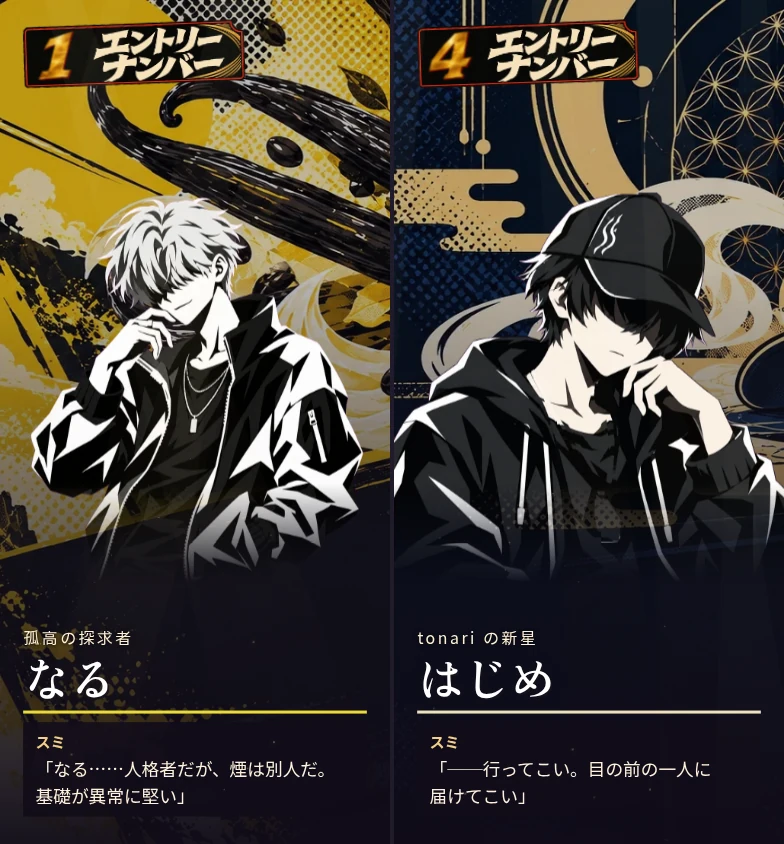
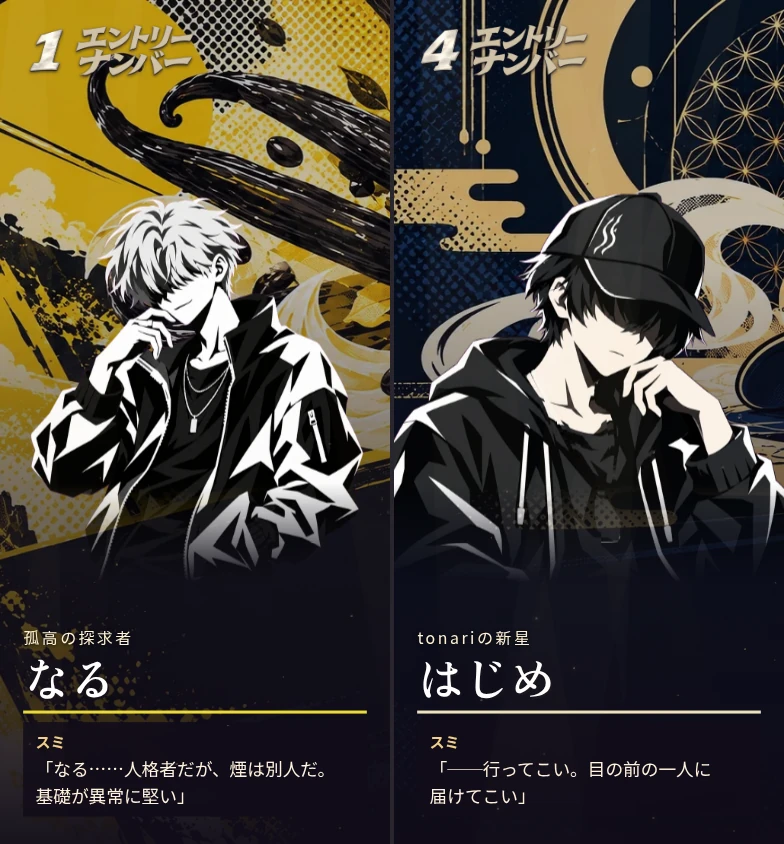
入場番号を背景になじませ、はじめの肩書きを全五章でつなぐ

Changed region(s): [[0.0306, 0.0, 0.3367, 0.1232], [0.5204, 0.0, 0.8265, 0.1232], [0.6122, 0.7393, 0.6735, 0.7701]]

diff --git a/remake/js/chapters/tournament-entrance.js b/remake/js/chapters/tournament-entrance.js
@@ -14,25 +14,25 @@ export const ENTRANCE_CARDS = Object.freeze({
     { id: "naru", ring: "孤高の探求者", note: "なる……人格者だが、煙は別人だ。基礎が異常に堅い" },
     { id: "adam", ring: "ダブルアップルの匠", note: "アダムは一点突破。正面から殴り合うな" },
     { id: "minto", ring: "甘い嵐", note: "みんとは緩急で揺さぶってくる。乗せられるな" },
-    { id: "hajime", ring: "tonari の新星", note: "──行ってこい。目の前の一人に届けてこい" },
+    { id: "hajime", ring: "tonariの新星", note: "──行ってこい。目の前の一人に届けてこい" },
   ],
   2: [
     { id: "ageha", ring: "MELTY PUFF の直感", note: "あげはは理屈より先に手が動く。あれを真似しようとするな" },
     { id: "kumicho", ring: "スジを通す煙", note: "神崎さんの煙は穏やかだ。派手さで勝とうとしたら負ける" },
     { id: "kuraudo", ring: "カシスの余韻", note: "クラウドは間で聴かせる。お前は自分の拍で作れ" },
-    { id: "hajime", ring: "県大会の挑戦者", note: "前の大会の自分と比べろ。隣は見なくていい" },
+    { id: "hajime", ring: "橙須の新星", note: "前の大会の自分と比べろ。隣は見なくていい" },
   ],
   3: [
     { id: "ayatori", ring: "煙幕の勝負師", note: "綾取は相手の判断を動かしてくる。味の名前に釣られるな" },
     { id: "steve", ring: "低温の研究家", note: "スティーブは熱を急がない。最後の一口まで崩れないぞ" },
     { id: "volk", ring: "鉄の煙", note: "ヴォルクの精度は本物だ。数字で張り合っても仕方ない" },
-    { id: "hajime", ring: "柚ヶ谷の代表", note: "全国だろうが、やることは一台だ。いつもどおり作ってこい" },
+    { id: "hajime", ring: "A県を背負う職人", note: "全国だろうが、やることは一台だ。いつもどおり作ってこい" },
   ],
   4: [
     { id: "naru", ring: "孤高の探求者", note: "なる……ここまで来たか。あいつの基礎は世界でも通じる" },
     { id: "master_hookah", ring: "龍龍水煙所の宗師", note: "王さんは派手な煙の裏で、相手の呼吸を見ている" },
     { id: "sheikh", ring: "世界王者", note: "王者は急がない。全部受け止めるつもりで来るぞ" },
-    { id: "hajime", ring: "日本の挑戦者", note: "──行ってこい。目の前の一人に届けてこい" },
+    { id: "hajime", ring: "日本を背負う職人", note: "──行ってこい。目の前の一人に届けてこい" },
   ],
 });
 
@@ -60,7 +60,7 @@ function ticketImage(name) {
 function entryTag(number) {
   return el("span.ent-tag", [
     el("span.ent-tag-label", [el("span", { text: "エントリー" }), el("span", { text: "ナンバー" })]),
-    ticketImage("ticket"),
+    ticketImage("lettering"),
     el("b.ent-number", [String(number), number <= 4 ? ticketImage(`digit-${number}`) : null]),
   ]);
 }

diff --git a/remake/css/bundle-1.css b/remake/css/bundle-1.css
@@ -11705,23 +11705,21 @@ html:root body:not(:root) #stage #modal > .modal-box.ts-contest-modal .modal-act
 .ent-card[data-art="classic"] .ent-portrait { height: 145%; bottom: -38%; }
 .entrance .ent-tag {
   position: relative; inset: auto; grid-column: 2; grid-row: 1; align-self: end; justify-self: start;
-  display: grid; grid-template-columns: 30% 1fr; align-items: center;
-  width: 366px; aspect-ratio: 2136 / 612; padding: 0; isolation: isolate;
-  color: #fff1d4; background: #1a121a; transform: rotate(-2deg); transform-origin: 16% 70%;
+  display: grid; grid-template-columns: 76px 1fr; column-gap: 9px; align-items: center;
+  width: 281px; height: 84px; padding: 0; color: #e2d8c0; background: transparent;
+  filter: drop-shadow(0 1px 1px #151019) drop-shadow(0 2px 3px #151019b8);
 }
-.entrance .ent-tag.printed { background: transparent; }
-.ent-tag > img, .ent-number > img {
-  position: absolute; inset: 0; width: 100%; height: 100%; object-fit: contain; pointer-events: none;
-}
-.ent-tag-label {
-  grid-column: 2; grid-row: 1; display: grid;
-  font: 900 28px/1.05 var(--font); letter-spacing: .06em;
-}
+.ent-tag-label, .ent-tag > img { grid-column: 2; grid-row: 1; }
+.ent-tag-label { display: grid; font: 800 25px/1.05 var(--font); letter-spacing: .04em; }
+.ent-tag > img, .ent-number > img { width: 100%; height: 100%; object-fit: contain; pointer-events: none; }
 .ent-tag.printed > .ent-tag-label, .ent-number.printed { color: transparent; }
 .ent-number {
-  position: relative; grid-column: 1; grid-row: 1; justify-self: center;
-  width: 83%; height: 80%; display: grid; place-items: center;
-  font: 900 78px/1 var(--font); color: #f9df98;
+  position: relative; grid-column: 1; grid-row: 1; width: 100%; height: 90%;
+  display: grid; place-items: center; font: 900 70px/1 var(--font); color: #e2d8c0;
+}
+.ent-number > img {
+  position: absolute; inset: 0;
+  filter: grayscale(1) contrast(.34) brightness(1.65) sepia(.24);
 }
 .entrance .ent-meta {
   grid-column: 2; grid-row: 2; max-width: 100%; min-width: 0;
@@ -11737,12 +11735,12 @@ html:root body:not(:root) #stage #modal > .modal-box.ts-contest-modal .modal-act
 .ent-card.in .ent-tag { animation: ent-tag-in .42s cubic-bezier(.16, .8, .24, 1) both; }
 .ent-card.in .ent-number { animation: ent-number-stamp .38s ease-out both; }
 @keyframes ent-tag-in {
-  from { translate: -48px 0; opacity: 0; }
+  from { translate: -18px 0; opacity: 0; }
   to { translate: 0 0; opacity: 1; }
 }
 @keyframes ent-number-stamp {
-  0% { scale: 1.45; }
-  65% { scale: .94; }
+  0% { scale: 1.12; }
+  65% { scale: .99; }
   100% { scale: 1; }
 }
 .ent-card.in .ent-portrait { animation: ent-arrive .5s var(--ease-snap) both; }

diff --git a/remake/css/tournament-show.css b/remake/css/tournament-show.css
@@ -373,23 +373,21 @@ html:root body:not(:root) #stage #modal > .modal-box.ts-contest-modal .modal-act
 .ent-card[data-art="classic"] .ent-portrait { height: 145%; bottom: -38%; }
 .entrance .ent-tag {
   position: relative; inset: auto; grid-column: 2; grid-row: 1; align-self: end; justify-self: start;
-  display: grid; grid-template-columns: 30% 1fr; align-items: center;
-  width: 366px; aspect-ratio: 2136 / 612; padding: 0; isolation: isolate;
-  color: #fff1d4; background: #1a121a; transform: rotate(-2deg); transform-origin: 16% 70%;
+  display: grid; grid-template-columns: 76px 1fr; column-gap: 9px; align-items: center;
+  width: 281px; height: 84px; padding: 0; color: #e2d8c0; background: transparent;
+  filter: drop-shadow(0 1px 1px #151019) drop-shadow(0 2px 3px #151019b8);
 }
-.entrance .ent-tag.printed { background: transparent; }
-.ent-tag > img, .ent-number > img {
-  position: absolute; inset: 0; width: 100%; height: 100%; object-fit: contain; pointer-events: none;
-}
-.ent-tag-label {
-  grid-column: 2; grid-row: 1; display: grid;
-  font: 900 28px/1.05 var(--font); letter-spacing: .06em;
-}
+.ent-tag-label, .ent-tag > img { grid-column: 2; grid-row: 1; }
+.ent-tag-label { display: grid; font: 800 25px/1.05 var(--font); letter-spacing: .04em; }
+.ent-tag > img, .ent-number > img { width: 100%; height: 100%; object-fit: contain; pointer-events: none; }
 .ent-tag.printed > .ent-tag-label, .ent-number.printed { color: transparent; }
 .ent-number {
-  position: relative; grid-column: 1; grid-row: 1; justify-self: center;
-  width: 83%; height: 80%; display: grid; place-items: center;
-  font: 900 78px/1 var(--font); color: #f9df98;
+  position: relative; grid-column: 1; grid-row: 1; width: 100%; height: 90%;
+  display: grid; place-items: center; font: 900 70px/1 var(--font); color: #e2d8c0;
+}
+.ent-number > img {
+  position: absolute; inset: 0;
+  filter: grayscale(1) contrast(.34) brightness(1.65) sepia(.24);
 }
 .entrance .ent-meta {
   grid-column: 2; grid-row: 2; max-width: 100%; min-width: 0;
@@ -405,12 +403,12 @@ html:root body:not(:root) #stage #modal > .modal-box.ts-contest-modal .modal-act
 .ent-card.in .ent-tag { animation: ent-tag-in .42s cubic-bezier(.16, .8, .24, 1) both; }
 .ent-card.in .ent-number { animation: ent-number-stamp .38s ease-out both; }
 @keyframes ent-tag-in {
-  from { translate: -48px 0; opacity: 0; }
+  from { translate: -18px 0; opacity: 0; }
   to { translate: 0 0; opacity: 1; }
 }
 @keyframes ent-number-stamp {
-  0% { scale: 1.45; }
-  65% { scale: .94; }
+  0% { scale: 1.12; }
+  65% { scale: .99; }
   100% { scale: 1; }
 }
 .ent-card.in .ent-portrait { animation: ent-arrive .5s var(--ease-snap) both; }

diff --git a/remake/js/looks/vertical.js b/remake/js/looks/vertical.js
@@ -143,12 +143,13 @@ function start() {
   function evaluate(now, periodic) {
     const wipe = document.querySelector("#wipe.resume");
     if (wipe) resumeSmoke.append(...wipe.querySelectorAll(".wipe-smoke, .wipe-haze"));
-    // 第1章の幕は本編の札をそのまま全面に出す。重なった小窓や操作画面があれば通常の判定に任せる。
+    // 大会入場は全章で同じ縦ポスターを使う。日付や幕の札は第1章だけを全面に出す。
     const frontMotion = motionLayer.root.lastElementChild;
     const frontFx = document.getElementById("fx")?.lastElementChild;
-    const interlude = state?.chapter === 1 && !isLoading() && !topDialogOpen() && !document.querySelector("#modal.show") &&
-      (frontMotion ? frontMotion.matches(".day-card, .tr-dawn") :
-        frontFx?.matches('.beat, .round-cut, .entrance, .day-card, .tr-dawn, .chapter-poem[data-poem="poem_ch1"]'));
+    const entrance = !frontMotion && frontFx?.matches(".entrance");
+    const chapterOneCard = state?.chapter === 1 && (frontMotion ? frontMotion.matches(".day-card, .tr-dawn") :
+      frontFx?.matches('.beat, .round-cut, .day-card, .tr-dawn, .chapter-poem[data-poem="poem_ch1"]'));
+    const interlude = (entrance || chapterOneCard) && !isLoading() && !topDialogOpen() && !document.querySelector("#modal.show");
     let found = interlude ? { kind: "scene", name: "interlude" } : boardOpen() ? { kind: "scene", name: "board" } : detectState(wipe ? [...own, wipe] : own);
     // 作業台に重なった大会中継・投票は、前面の大会用レイアウトで操作する。
     const tournament = found.name === "tournament" || found.name === "tournamentResult";

diff --git a/remake/js/chapters/ch5.js b/remake/js/chapters/ch5.js
@@ -60,7 +60,7 @@ const test = name => `ch5-${name}`;
 
 // 試合当日の場面カード文案（到着→一杯目→二杯目の前の順）。
 const MATCH_CARDS = {
-  arrival: { title: "試合当日", description: "会場に着いた。あとは、二台の煙だけ。" },
+  arrival: { title: "tonariの店長　はじめ", description: "試合当日。SHISHA-9000との二本勝負に向かう。" },
   firstCup: { title: "一台目", description: "一台目は、9000が、はじめの待ち方を再現する。" },
   beforeSecond: { title: "二台目の前に", description: "ここまでの日々が、二台目を作る。" },
 };

diff --git a/docs/design/ch1-portrait-pad/README.md b/docs/design/ch1-portrait-pad/README.md
@@ -2,7 +2,7 @@
 
 **最初に全面化したいのは、巻頭詩、朝・大会当日の日付、夜イベントの一行、大会の選手入場と ROUND の帯。** 390 × 844 CSS px では、これらの場面にも下端の **302 px** が割り当てられ、背景と演出の表示枠は **542 px** だった。本文送りや行き先選択が戻る瞬間に、従来の親指位置へ戻す。コンティニューは維持する。
 
-採用後の第1章では、選手入場を「エントリーナンバー1　なる」から「エントリーナンバー4　はじめ」まで選手ごとの登場カットインの人物絵と背景で紹介する。上部には朱縁の黒札が入り、手描き文字の隣に金箔調の番号が大きく現れる。少し遅れて選手名が入る。二つ名・選手名・スミの台詞は下部の別々の行に表示する。[実装後の入場画面（左・なる、右・はじめ）](entrants-implemented.webp)／[3番・みんとから4番・はじめへの切り替わり（動画）](entry-number-motion.webp)
+採用後の第1章では、選手入場を「エントリーナンバー1　なる」から「エントリーナンバー4　はじめ」まで選手ごとの登場カットインの人物絵と背景で紹介する。上部には生成した題字と番号を同じ淡い紙色で重ね、文字の隙間から選手ごとの背景が見える。少し遅れて選手名が入る。二つ名・選手名・スミの台詞は下部の別々の行に表示する。[実装後の入場画面（左・なる、右・はじめ）](entrants-implemented.webp)／[3番・みんとから4番・はじめへの切り替わり（動画）](entry-number-motion.webp)
 
 ここでのパッドは左の輪形十字キーと右の丸ボタン（以下 A）の組。片方でも役割があれば「要る」。写真・文・ボタンを直接タップできるだけでは、パッドを外す理由にしない。以下の判定は **main `abf2a5731` の第1章・「縦画面／煙の舞台」** に限る。演出が重なるときは最前面で入力を受ける画面を優先する。
 

diff --git a/brand/story_and_structure.md b/brand/story_and_structure.md
@@ -6,7 +6,7 @@
 
 ## 舞台となる街
 
-地元は**橙須（とうす）**。愛知県の大須を元に、柑橘の「橙」と読みを組み合わせた架空の街名。tonariを中心に商店街や個人店が並ぶ。tonariは小さな店だが、橙須の地区では老舗で、よく混む（2026-11-20 オーナー決定。フロア営業の前にスミさんが話す）。第2章で通う都会の隣町は**柚ヶ谷（ゆずがや）**。朝は橙須の自宅から行き先を選び、柚ヶ谷へ出かけた夜も橙須の自宅へ帰る。第2章以降は面識のある柚ヶ谷のあげは・神崎・クラウドも私用で橙須へ来る。あげははぺぱーみんと、神崎はEDEN、クラウドはtonariで、初回と再訪の短い会話を通常の来店に添える。保存IDの `home` / `widehanga` や、背景画像の過去のファイル名は変更しない。
+地元は**橙須（とうす）**。愛知県の大須を元に、柑橘の「橙」と読みを組み合わせた架空の街名。橙須のある県は「A県」と表記する。tonariを中心に商店街や個人店が並ぶ。tonariは小さな店だが、橙須の地区では老舗で、よく混む（2026-11-20 オーナー決定。フロア営業の前にスミさんが話す）。第2章で通う都会の隣町は**柚ヶ谷（ゆずがや）**。朝は橙須の自宅から行き先を選び、柚ヶ谷へ出かけた夜も橙須の自宅へ帰る。第2章以降は面識のある柚ヶ谷のあげは・神崎・クラウドも私用で橙須へ来る。あげははぺぱーみんと、神崎はEDEN、クラウドはtonariで、初回と再訪の短い会話を通常の来店に添える。保存IDの `home` / `widehanga` や、背景画像の過去のファイル名は変更しない。
 
 ## 全ルートを通る主題
 
